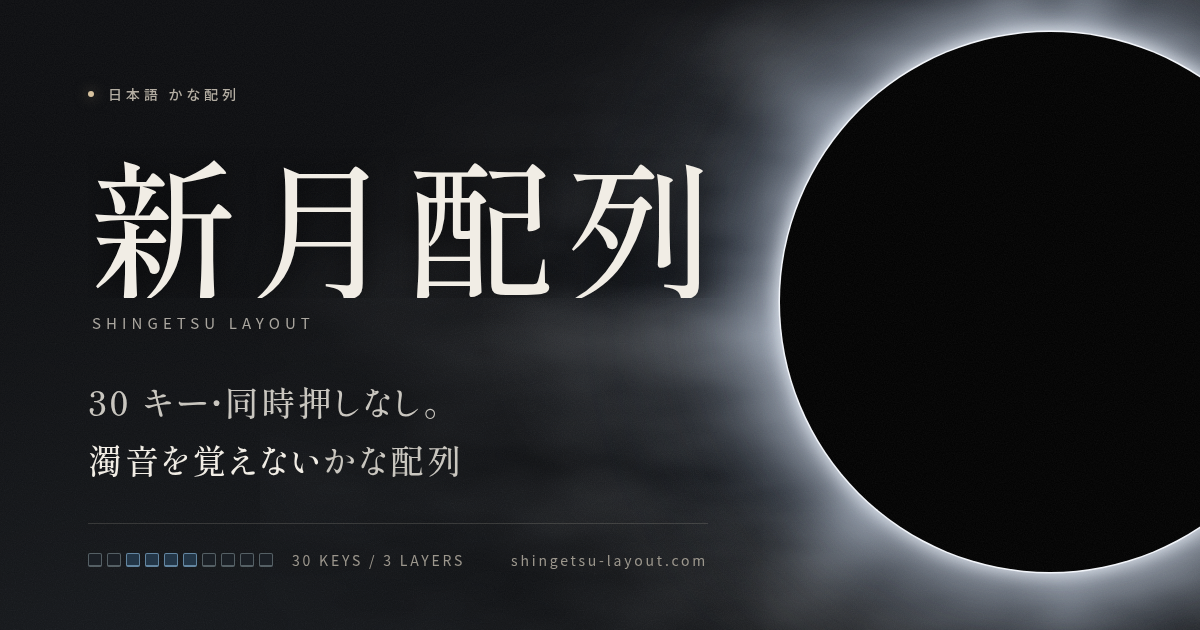
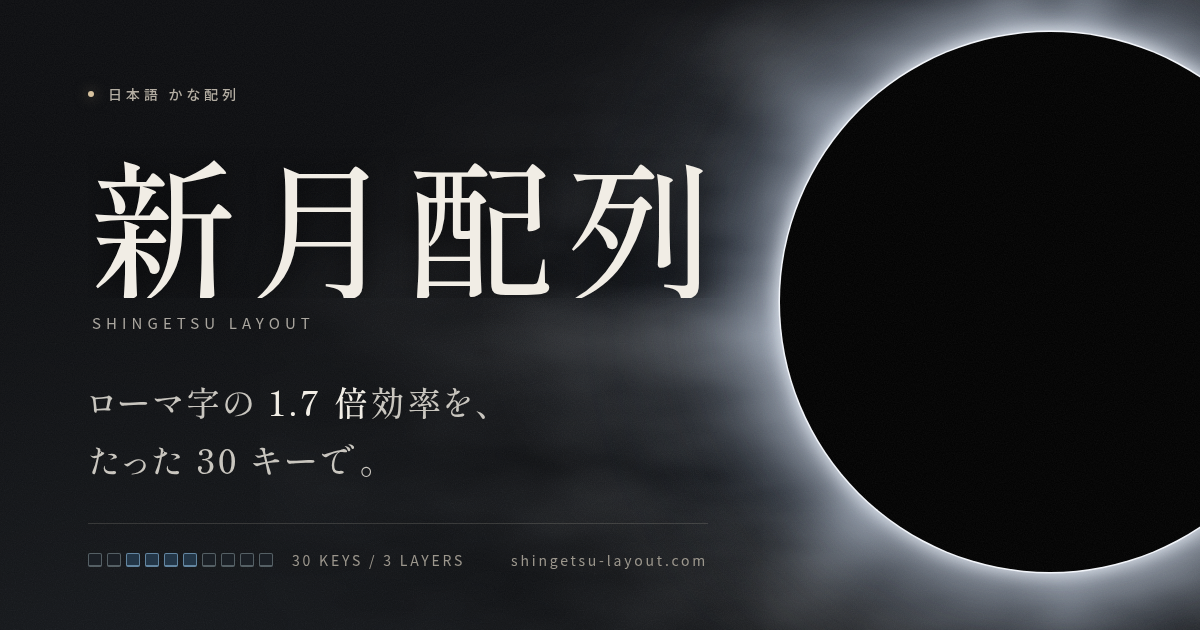
feat(copy): tagline 'ローマ字の 1.7 倍効率を、たった 30 キーで。'
h1・title・meta・JSON-LD・OG・manifest・共有文言を統一。根拠（統一ベンチマーク推定時間
QWERTY 3.195 → 新月 1.887）と「※推定値」の注記、ベンチ記事への導線を h1 直下に配置。

Changed region(s): [[0.0617, 0.6937, 0.4008, 0.754], [0.0617, 0.6032, 0.4008, 0.6635]]

diff --git a/SPEC.md b/SPEC.md
@@ -22,7 +22,7 @@
 
 | セクション | 内容 | レンダリング |
 |-----------|------|------------|
-| Hero | タグライン「30 キー・同時押しなし。濁音を覚えない、PCキーボード用かな配列」+ メインビジュアル (SVG)。「最高効率」等の最上級は統一ベンチマークで支持されないため使わない（2026-09-25） | prerender |
+| Hero | タグライン「ローマ字の 1.7 倍効率を、たった 30 キーで。」（根拠: 統一ベンチマーク推定時間 QWERTY 3.195 → 新月 1.887 = 1.69 倍。直下に「※推定値」とベンチ記事への導線を置く）+ メインビジュアル (SVG)。「最高効率」等の最上級は統一ベンチマークで支持されないため使わない（2026-09-25） | prerender |
 | Features | 3カード: 30キー完結 / 頻度ベースの打鍵数（☆★前置） / 3段階の打鍵規則（濁点は「清音 + ゛」の後置） | prerender |
 | LayerDemo | 3層構造のインタラクティブ図解。レイヤー切替ボタンで Layer 0/1/2 の文字配置を可視化 | prerender + client JS |
 | TypingPractice | 新月専用の20文字練習。基本・前置シフト・濁点・苦手復習、打鍵順ガイド、入力方法別の端末内成績。詳細は `PRACTICE.md` | prerender + vanilla TS |
